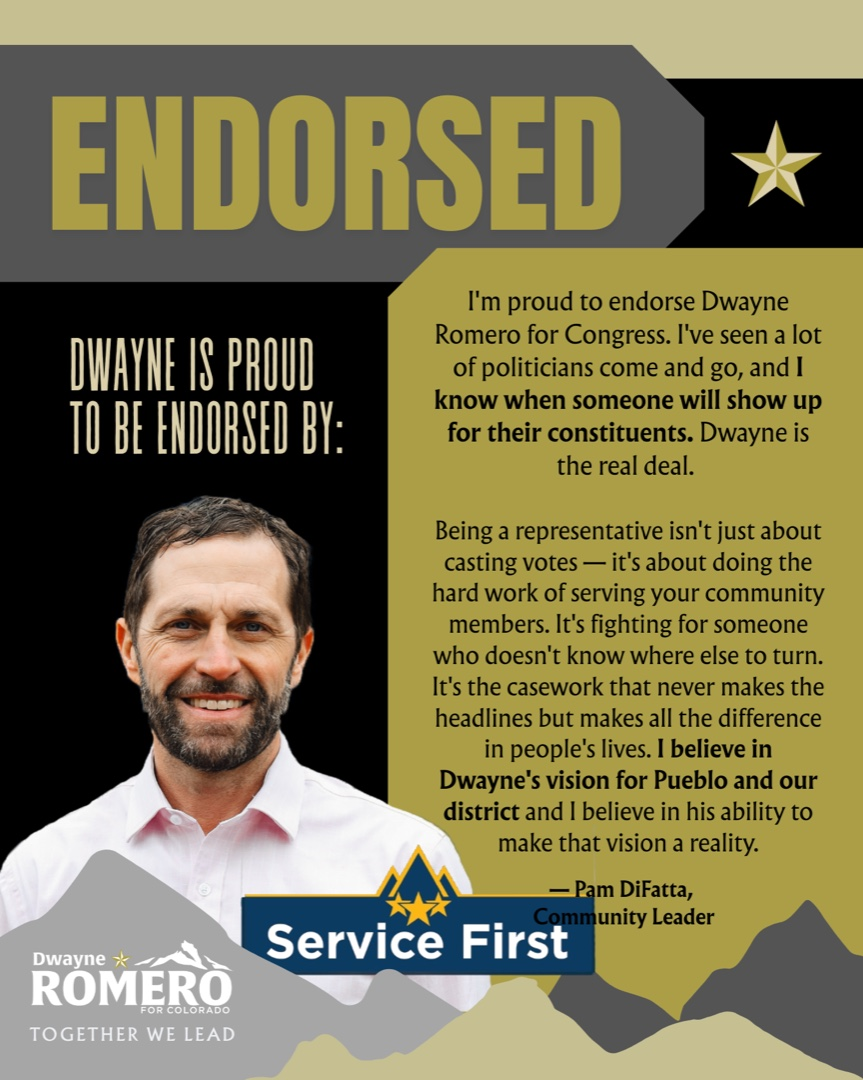
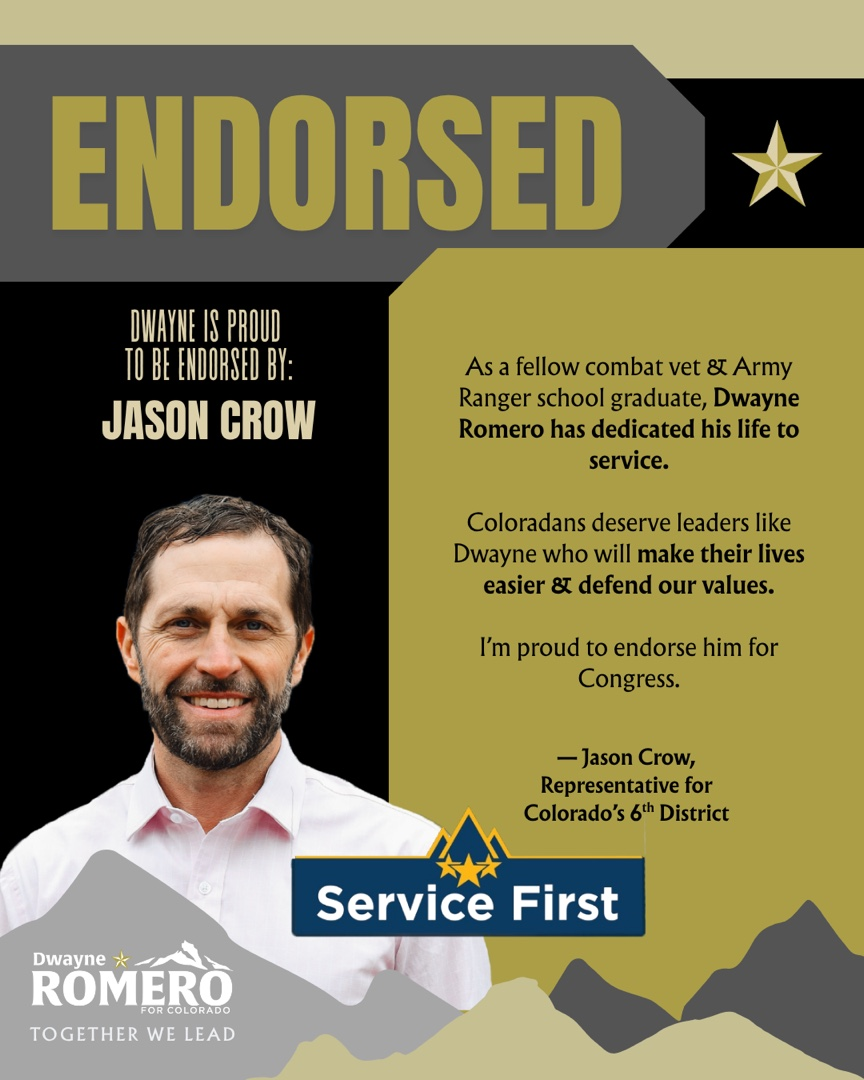
Endorsements: corrected Jason Crow card added, grid now 3 per row
Corrected asset from the client replaces the excluded card (previous file
carried Pam DiFatta's quote). Grid: 3 columns desktop, 2 tablet, 1 mobile.

diff --git a/components/EndorsementGrid.tsx b/components/EndorsementGrid.tsx
@@ -5,8 +5,7 @@ import { XmarkIcon } from "./icons";
 
 const CARDS = [
   { slug: "john-hickenlooper", name: "U.S. Senator John Hickenlooper" },
-  // jason-crow.png excluded: source asset carries Pam DiFatta's quote and
-  // the Service First logo — awaiting a corrected card from the design team
+  { slug: "jason-crow", name: "Congressman Jason Crow" },
   { slug: "john-salazar", name: "Former Congressman John Salazar" },
   { slug: "vote-vets", name: "VoteVets" },
   { slug: "nalc", name: "National Association of Letter Carriers" },

diff --git a/styles/pages.css b/styles/pages.css
@@ -196,9 +196,9 @@
 
 .en-grid {
   display: grid;
-  grid-template-columns: repeat(2, 1fr);
-  gap: 24px;
-  max-width: 1150px;
+  grid-template-columns: repeat(3, 1fr);
+  gap: 20px;
+  max-width: 1250px;
   margin: 0 auto;
 }
 
@@ -231,6 +231,7 @@
   }
 
   .en-grid {
+    grid-template-columns: repeat(2, 1fr);
     gap: 16px;
   }
 }
